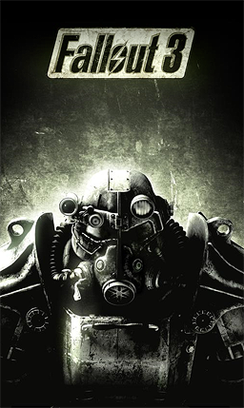
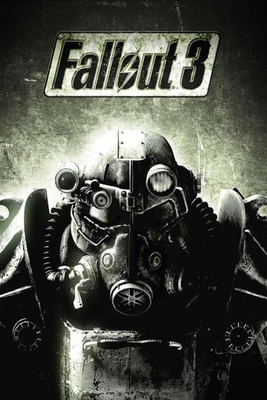
🖼 feat(web): best game grid images

diff --git a/web/src/components/games.rs b/web/src/components/games.rs
@@ -12,6 +12,7 @@ fn get_games() -> Vec<Game> {
         Game {
             title: "Bioshock".to_string(),
             cover: "games/bioshock.png".to_string(),
+            
         },
         Game {
             title: "Age of Empires II".to_string(),
@@ -26,8 +27,8 @@ fn get_games() -> Vec<Game> {
             cover: "games/portal.png".to_string(),
         },
         Game {
-            title: "Warcraft III".to_string(),
-            cover: "games/warcraft_iii.png".to_string(),
+            title: "Amnesia: The Dark Descent".to_string(),
+            cover: "games/amnesia.png".to_string(),
         },
         Game {
             title: "Fallout 3".to_string(),
@@ -39,8 +40,7 @@ fn get_games() -> Vec<Game> {
         },
         Game {
             title: "Cyberpunk 2077".to_string(),
-            // cover: "games/cyberpunk_2077.png".to_string(),
-            cover: "https://cdn2.steamgriddb.com/file/sgdb-cdn/grid/51f993d243a0d38e4669ac0bc3f8df05.webp".to_string(),
+            cover: "games/cyberpunk_2077.webp".to_string(),
         },
         Game {
             title: "Half-Life".to_string(),
@@ -49,6 +49,14 @@ fn get_games() -> Vec<Game> {
         Game {
             title: "The Elder Scrolls IV: Oblivion".to_string(),
             cover: "games/the_elder_scrolls_oblivion.png".to_string(),
+        },
+        Game {
+            title: "Assassin's Creed II".to_string(),
+            cover: "games/assassins_creed_ii.png".to_string(),
+        },
+        Game {
+            title: "Warcraft III".to_string(),
+            cover: "games/warcraft_iii.png".to_string(),
         },
     ]
 }
